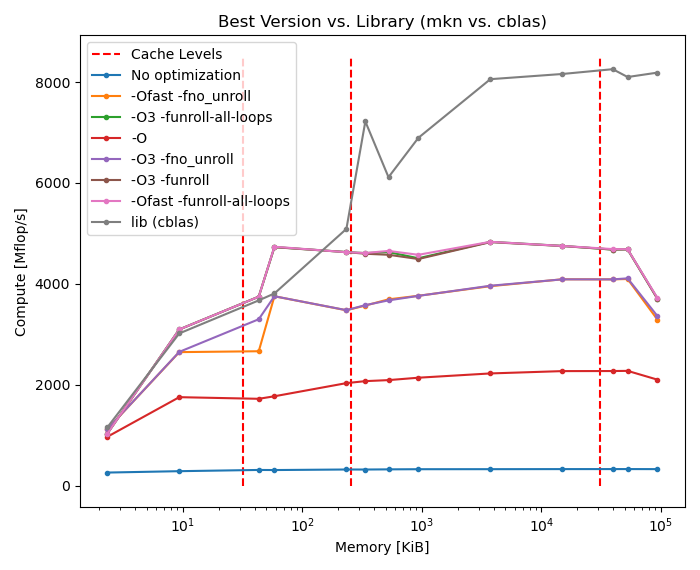
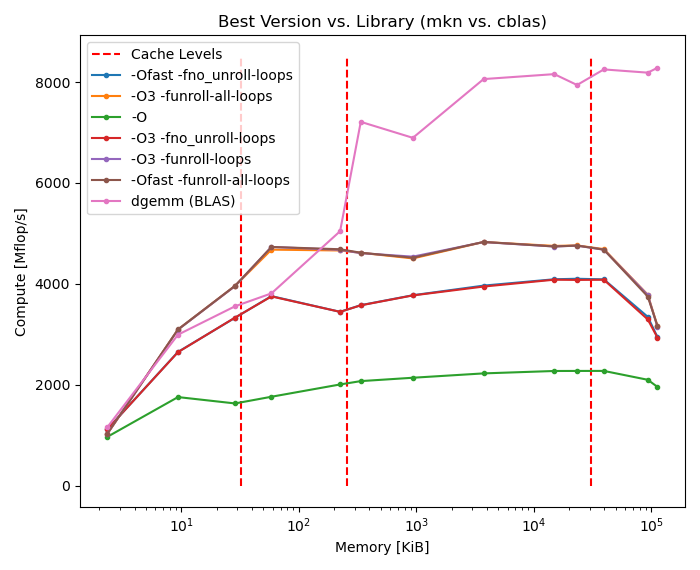
figures updated

diff --git a/assignment1/plot_all_results.py b/assignment1/plot_all_results.py
@@ -21,8 +21,14 @@ titles = {"results_Ofast_fno_unroll.dat": "-Ofast -fno_unroll-loops",
           "results_-Ofast_-funroll-all-loops.dat": "-Ofast -funroll-all-loops"
           }
 
+set_of_files = {'results_no_opt_divide_m.dat',
+        'results_no_opt_divide_k.dat',
+        'results_no_opt_divide_n.dat',
+        "results_smaller_m.dat",
+        "results_no_opt.dat"}
+
 # Create a figure with subplots
-fig, axes = plt.subplots(3, 2, figsize=(8, 8))
+fig, axes = plt.subplots(3, 2, figsize=(6, 7))
 axes = axes.flatten()  # Flatten to easily index
 
 # Plot stuff
@@ -30,7 +36,7 @@ plot_index = 0
 handles, labels = None, None  # Initialize handles and labels for the shared legend
 
 for i in range(len(files)):
-    if files[i] != "results_no_opt.dat" and files[i] != "results_smaller_m.dat":
+    if files[i] not in set_of_files:
 
         file_name = folder_path + "/" + files[i]
         data = pd.read_csv(file_name, delim_whitespace=True, header=None)
@@ -85,24 +91,24 @@ plt.figure(figsize=(7, 5.7))
 plt.vlines([L1, L2, L3], 0, 8500, linestyle="--", color="red", label="Cache Levels")
 
 for i in range(len(files)):
-
-    file_name = folder_path + "/" + files[i]
-    data = pd.read_csv(file_name, delim_whitespace=True, header=None)
-    data = data.drop(columns=[2])
-    data.columns = ['memory', 'performance', 'version']
-    versions = data['version'].unique()
-
-
+    if files[i] not in set_of_files:
+        file_name = folder_path + "/" + files[i]
+        data = pd.read_csv(file_name, delim_whitespace=True, header=None)
+        data = data.drop(columns=[2])
+        data.columns = ['memory', 'performance', 'version']
+        versions = data['version'].unique()
     
-    for v in range(len(versions)):
-        if versions[v] == 'matmult_mkn':
-            x = data[data['version'] == versions[v]]['memory']
-            y = data[data['version'] == versions[v]]['performance']
-            plt.semilogx(x, y, ".-", label=titles[files[i]])
     
-    plt.xlabel("Memory [KiB]")
-    plt.ylabel("Compute [Mflop/s]")
-    plt.title("Best Version vs. Library (mkn vs. cblas)")
+        
+        for v in range(len(versions)):
+            if versions[v] == 'matmult_mkn':
+                x = data[data['version'] == versions[v]]['memory']
+                y = data[data['version'] == versions[v]]['performance']
+                plt.semilogx(x, y, ".-", label=titles[files[i]])
+        
+        plt.xlabel("Memory [KiB]")
+        plt.ylabel("Compute [Mflop/s]")
+        plt.title("Best Version vs. Library (mkn vs. cblas)")
 
 x = data[data['version'] == 'matmult_lib']['memory']
 y = data[data['version'] == 'matmult_lib']['performance']
@@ -181,6 +187,24 @@ axes[1].legend()
 # Adjust layout
 plt.tight_layout()
 plt.show()
+
+#%%
+
+# Load and preprocess the data
+file_name = folder_path + "/" + 'results_smaller_m.dat'
+data = pd.read_csv(file_name, delim_whitespace=True, header=None)
+data = data.drop(columns=[2])
+data.columns = ['memory', 'performance', 'version']
+versions = data['version'].unique()
+
+plt.figure()
+
+for v in range(len(versions)):
+    if versions[v] != 'matmult_lib':
+        x = data[data['version'] == versions[v]]['memory']
+        y = data[data['version'] == versions[v]]['performance']
+        plt.semilogx(x, y, ".-", label=versions[v][-3:])
+
 
 
 
